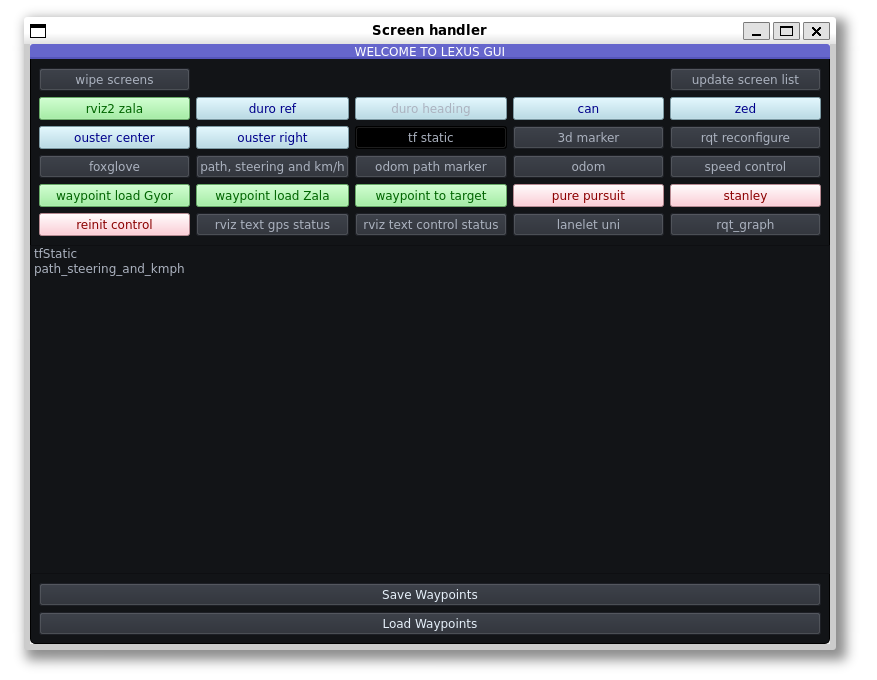
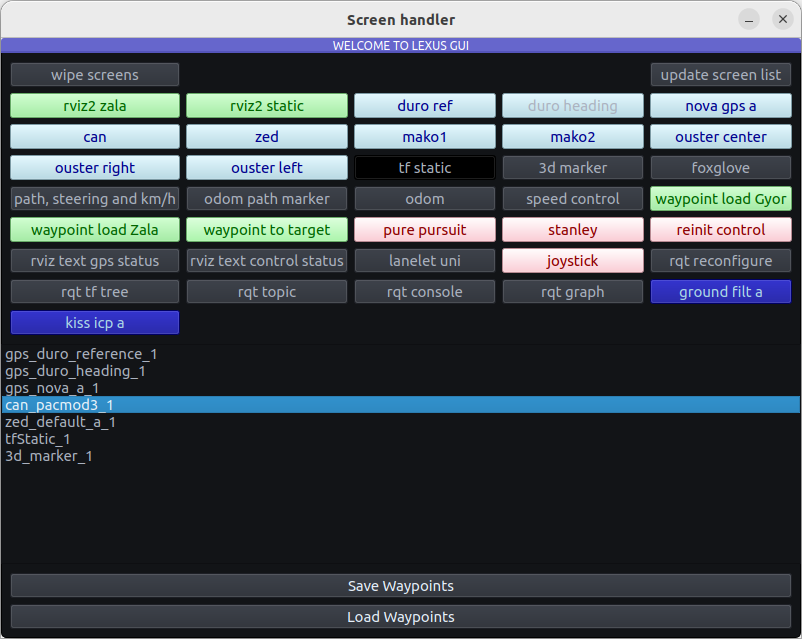
Buttons added (nova gps and perception)

diff --git a/README.md b/README.md
@@ -1,6 +1,8 @@
 # `gui_lexus` ROS2 package
 ROS2 GUI for Lexus
 
+[![Static Badge](https://img.shields.io/badge/ROS_2-Humble-34aec5)](https://docs.ros.org/en/humble/)
+
 ## Build
 
 It is assumed that the workspace is `~/ros2_ws/`. Tested on Ubuntu 22.04 ROS2 Humble.
@@ -51,5 +53,6 @@ dev@u22glx:~/ros2_ws/src/gui_lexus(main)$
 ``` yaml
 ros2 topic pub /pacmod/parsed_tx/vehicle_speed_rpt pacmod3_msgs/msg/VehicleSpeedRpt "{header: {stamp: {sec: 0, nanosec: 0}, frame_id: 'map'}, vehicle_speed: 0.1, vehicle_speed_valid: true}"
 ```
-![control](resource/control01.png)
 ![lexus](resource/lexus01.png)
+![lexus](resource/lexus02.png)
+![control](resource/control01.png)
